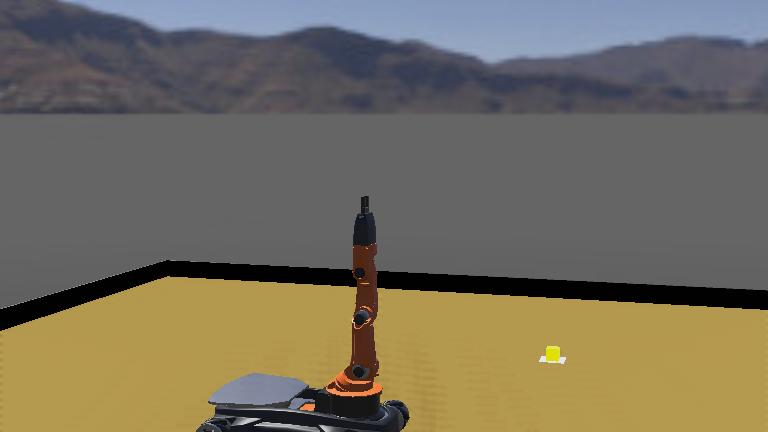
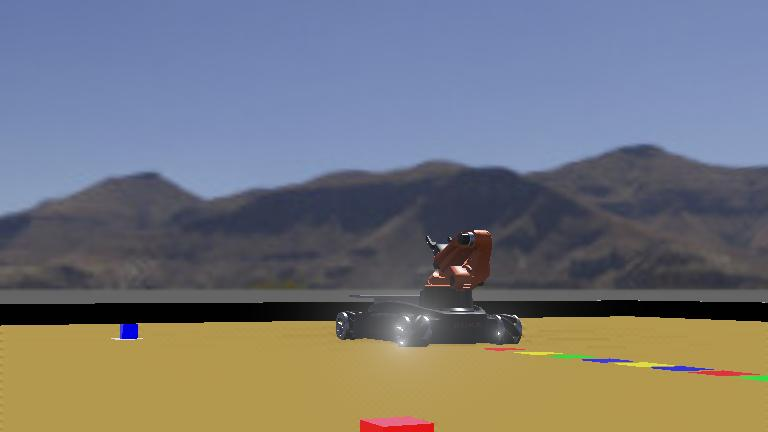
make robot with cameras and sensor and move it

diff --git a/controllers/color_reader/color_reader.py b/controllers/color_reader/color_reader.py
@@ -1,74 +1,155 @@
 from controller import Robot
 
-# إعدادات الروبوت
+# 1. إعداد الروبوت
 robot = Robot()
 timestep = int(robot.getBasicTimeStep())
 
-# إعداد الكاميرا
-camera = robot.getDevice("cam")
-camera.enable(timestep)
+# 2. إعداد الكاميرات
+cam_floor = robot.getDevice("cam_floor")
+if cam_floor: cam_floor.enable(timestep)
 
-# إعداد المحركات
-left_motor = robot.getDevice("left_motor")
-right_motor = robot.getDevice("right_motor")
+cam_reg = robot.getDevice("cam_reg")
+if cam_reg:
+    cam_reg.enable(timestep)
+    cam_reg.recognitionEnable(timestep)
 
-# ضبط المحركات لتعمل بنمط السرعة وليس الموضع
-left_motor.setPosition(float('inf'))
-right_motor.setPosition(float('inf'))
-left_motor.setVelocity(0.0)
-right_motor.setVelocity(0.0)
+# 3. إعداد الحساس (Distance Sensor)
+ds_front = robot.getDevice("ds_front")
+if ds_front: ds_front.enable(timestep)
 
-# قائمة لتخزين الألوان (مصفوفة الألوان الثمانية)
-color_sequence = []
+# 4. إعداد مفاصل الذراع والقابض
+arm_motors = []
+for i in range(1, 6):
+    motor = robot.getDevice(f"arm{i}")
+    arm_motors.append(motor)
 
+finger_left = robot.getDevice("finger::left")
+finger_right = robot.getDevice("finger::right")
+
+def set_arm_pos(p1, p2, p3, p4, p5):
+    positions = [p1, p2, p3, p4, p5]
+    for i in range(5):
+        if arm_motors[i]: arm_motors[i].setPosition(positions[i])
+
+def grip(open_gate=True):
+    pos = 0.025 if open_gate else 0.0
+    if finger_left and finger_right:
+        finger_left.setPosition(pos)
+        finger_right.setPosition(pos)
+
+# 5. إعداد العجلات
+wheels = []
+for name in ['wheel1', 'wheel2', 'wheel3', 'wheel4']:
+    w = robot.getDevice(name)
+    if w:
+        w.setPosition(float('inf'))
+        w.setVelocity(0.0)
+    wheels.append(w)
+
+def set_wheels_speed(left_front, right_front, left_back, right_back):
+    speeds = [left_front, right_front, left_back, right_back]
+    for i in range(4):
+        if wheels[i]: wheels[i].setVelocity(speeds[i])
+
+# 6. منطق تمييز الألوان
 def detect_color(r, g, b):
-    # منطق تمييز الألوان بناءً على القيم التي حصلت عليها (251, 251, 0)
     if r > 200 and g > 200 and b < 100: return "YELLOW"
-    if r > 200 and g < 100 and b < 100: return "RED"
-    if g > 200 and r < 100 and b < 100: return "GREEN"
-    if b > 200 and r < 100 and g < 100: return "BLUE"
-    return "UNKNOWN"
+    if r > 200 and g < 150 and b < 150: return "RED"
+    if g > 200 and r < 150 and b < 150: return "GREEN"
+    if b > 200 and r < 150 and g < 150: return "BLUE"
+    return "GROUND"
 
-# متغيرات التحكم بالحركة
-start_time = robot.getTime()
-state = "DRIVING"
-scan_count = 0
+def find_correct_cube(target_color_name):
+    objects = cam_reg.getRecognitionObjects()
+    for obj in objects:
+        if obj.get_model() == b'CUBE':
+            colors = obj.get_colors()
+            detected = ""
+            if colors[0] > 0.8 and colors[1] > 0.8: detected = "YELLOW"
+            elif colors[0] > 0.8: detected = "RED"
+            elif colors[1] > 0.8: detected = "GREEN"
+            elif colors[2] > 0.8: detected = "BLUE"
+            
+            if detected == target_color_name:
+                return obj.get_position()
+    return None
 
-print("--- بدء عملية قراءة المصفوفة ---")
+# --- المتغيرات التشغيلية ---
+color_sequence = []
+last_color = "GROUND"
+state = "SCANNING_ARRAY"
+target_cube_color = ""
+counter = 0 # للتحكم في توقيت الذراع
+
+# وضعية البداية
+set_arm_pos(0, -1.1, -2.5, -1.78, 0)
+grip(True)
+
+print("--- المرحلة 1: مسح المصفوفة ---")
 
 while robot.step(timestep) != -1:
-    current_time = robot.getTime()
     
-    if scan_count < 8:
-        # الحركة للأمام قليلاً
-        left_motor.setVelocity(2.0)
-        right_motor.setVelocity(2.0)
+    # حماية عامة: إذا كان هناك عائق قريب جداً، توقف (باستثناء مرحلة الالتقاط)
+    if ds_front and ds_front.getValue() < 100 and state != "PICKUP":
+        set_wheels_speed(0, 0, 0, 0)
+        print("عائق قريب! توقف للأمان.")
+        continue
+
+    if state == "SCANNING_ARRAY":
+        set_wheels_speed(1.0, 1.0, 1.0, 1.0)
+        image = cam_floor.getImageArray()
+        if image:
+            r, g, b = image[0][0][0], image[0][0][1], image[0][0][2]
+            current = detect_color(r, g, b)
+            if current != "GROUND" and current != last_color:
+                color_sequence.append(current)
+                print(f"تم تسجيل: {current}")
+                last_color = current
+            elif current == "GROUND":
+                last_color = "GROUND"
         
-        # بعد فترة زمنية قصيرة (تحتاج لضبطها حسب المسافة بين البلاطات)
-        if current_time - start_time > 1.5:  # فرضا كل 1.5 ثانية يصل لبلاطة
-            # توقف للحظة للقراءة
-            left_motor.setVelocity(0.0)
-            right_motor.setVelocity(0.0)
+        if len(color_sequence) == 8:
+            set_wheels_speed(0, 0, 0, 0)
+            target_cube_color = color_sequence[0]
+            print(f"اكتمل المسح. الهدف الأول: {target_cube_color}")
+            state = "SEARCH_CUBE"
+
+    elif state == "SEARCH_CUBE":
+        pos = find_correct_cube(target_cube_color)
+        if pos:
+            x_off, z_depth = pos[0], pos[2]
+            # دوران هادئ لتوسيط المكعب
+            if abs(x_off) > 0.02:
+                spd = 0.4 if x_off > 0 else -0.4
+                set_wheels_speed(spd, -spd, spd, -spd)
+            else:
+                # التحرك للأمام باتجاه المكعب
+                if z_depth > 0.22: # مسافة التوقف قبل الالتقاط
+                    set_wheels_speed(0.8, 0.8, 0.8, 0.8)
+                else:
+                    set_wheels_speed(0, 0, 0, 0)
+                    print("وصلت للمكعب. ابدأ الالتقاط.")
+                    state = "PICKUP"
+                    counter = 0
+        else:
+            # دوران للبحث في المكان دون رجوع
+            set_wheels_speed(0.5, -0.5, 0.5, -0.5)
+
+    elif state == "PICKUP":
+        counter += 1
+        if counter == 1:
+            # إنزال الذراع فوق المكعب
+            set_arm_pos(0.0, 0.45, -1.15, -1.0, 0.0)
+        elif counter == 50: # انتظر حتى تصل الذراع
+            grip(False) # أغلق اليد
+            print("تم الإمساك بالمكعب.")
+        elif counter == 100:
+            # رفع المكعب
+            set_arm_pos(0.0, -0.5, -1.5, -1.0, 0.0)
+            print("تم رفع المكعب. المهمة نجحت!")
+            state = "GO_TO_WALL"
             
-            # قراءة الكاميرا
-            image = camera.getImageArray()
-            # قراءة البكسل المركزي (بفرض أن الكاميرا 64x64)
-            r = image[32][32][0]
-            g = image[32][32][1]
-            b = image[32][32][2]
-            
-            color = detect_color(r, g, b)
-            color_sequence.append(color)
-            
-            print(f"قراءة البلاطة {scan_count + 1}: {color}")
-            
-            # إعادة ضبط الوقت للبلاطة التالية
-            start_time = robot.getTime()
-            scan_count += 1
-    else:
-        # التوقف التام بعد انتهاء الـ 8 بلاطات
-        left_motor.setVelocity(0.0)
-        right_motor.setVelocity(0.0)
-        if scan_count == 8:
-            print("المصفوفة النهائية التي تم قراءتها:", color_sequence)
-            scan_count += 1 # لمنع تكرار الطباعة
+    elif state == "GO_TO_WALL":
+        # هنا يمكنك إضافة كود التوجه للحائط (الهدف القادم)
+        set_wheels_speed(0, 0, 0, 0)
+        break
